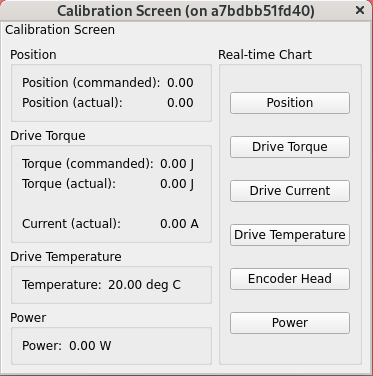
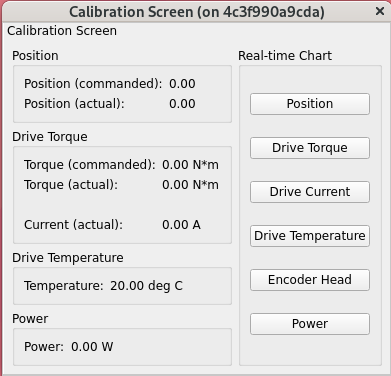
Change the torque unit to be N*m instead of J.

diff --git a/python/lsst/ts/mtdomegui/tab/tab_louver_single.py b/python/lsst/ts/mtdomegui/tab/tab_louver_single.py
@@ -114,7 +114,7 @@ class TabLouverSingle(TabTemplate):
             "drive_torque": TabFigure(
                 f"{louver_name} Actual Drive Torque",
                 self.model,
-                "J",
+                "N*m",
                 [str(idx) for idx in range(LCS_NUM_MOTORS_PER_LOUVER)],
             ),
             "drive_current": TabFigure(
@@ -291,9 +291,9 @@ class TabLouverSingle(TabTemplate):
         Parameters
         ----------
         torque_commanded : `list` [`float`]
-            Commanded torque in J.
+            Commanded torque in N*m.
         torque_actual : `list` [`float`]
-            Actual torque in J.
+            Actual torque in N*m.
         current_actual : `list` [`float`]
             Actual current in A.
         encoder_head : `list` [`float`]
@@ -302,10 +302,10 @@ class TabLouverSingle(TabTemplate):
 
         for idx in range(LCS_NUM_MOTORS_PER_LOUVER):
             self._status["drive_torque_commanded"][idx].setText(
-                f"{torque_commanded[idx]:.2f} J"
+                f"{torque_commanded[idx]:.2f} N*m"
             )
             self._status["drive_torque_actual"][idx].setText(
-                f"{torque_actual[idx]:.2f} J"
+                f"{torque_actual[idx]:.2f} N*m"
             )
             self._status["drive_current_actual"][idx].setText(
                 f"{current_actual[idx]:.2f} A"

diff --git a/python/lsst/ts/mtdomegui/tab/tab_aperture_shutter.py b/python/lsst/ts/mtdomegui/tab/tab_aperture_shutter.py
@@ -144,7 +144,7 @@ class TabApertureShutter(TabTemplate):
             "drive_torque": TabFigure(
                 "Actual Drive Torque",
                 self.model,
-                "J",
+                "N*m",
                 [str(idx) for idx in range(NUM_DRIVE_SHUTTER)],
             ),
             "drive_current": TabFigure(
@@ -369,10 +369,10 @@ class TabApertureShutter(TabTemplate):
 
         for idx in range(NUM_DRIVE_SHUTTER):
             self._status["drive_torque_commanded"][idx].setText(
-                f"{telemetry['driveTorqueCommanded'][idx]:.2f} J"
+                f"{telemetry['driveTorqueCommanded'][idx]:.2f} N*m"
             )
             self._status["drive_torque_actual"][idx].setText(
-                f"{telemetry['driveTorqueActual'][idx]:.2f} J"
+                f"{telemetry['driveTorqueActual'][idx]:.2f} N*m"
             )
             self._status["drive_current_actual"][idx].setText(
                 f"{telemetry['driveCurrentActual'][idx]:.2f} A"

diff --git a/python/lsst/ts/mtdomegui/tab/tab_elevation.py b/python/lsst/ts/mtdomegui/tab/tab_elevation.py
@@ -151,7 +151,7 @@ class TabElevation(TabTemplate):
             "drive_torque": TabFigure(
                 "Actual Drive Torque",
                 self.model,
-                "J",
+                "N*m",
                 [str(idx) for idx in range(LWSCS_NUM_MOTORS)],
             ),
             "drive_current": TabFigure(
@@ -398,10 +398,10 @@ class TabElevation(TabTemplate):
 
         for idx in range(LWSCS_NUM_MOTORS):
             self._status["drive_torque_commanded"][idx].setText(
-                f"{telemetry['driveTorqueCommanded'][idx]:.2f} J"
+                f"{telemetry['driveTorqueCommanded'][idx]:.2f} N*m"
             )
             self._status["drive_torque_actual"][idx].setText(
-                f"{telemetry['driveTorqueActual'][idx]:.2f} J"
+                f"{telemetry['driveTorqueActual'][idx]:.2f} N*m"
             )
             self._status["drive_current_actual"][idx].setText(
                 f"{telemetry['driveCurrentActual'][idx]:.2f} A"

diff --git a/python/lsst/ts/mtdomegui/tab/tab_azimuth.py b/python/lsst/ts/mtdomegui/tab/tab_azimuth.py
@@ -153,7 +153,7 @@ class TabAzimuth(TabTemplate):
             "drive_torque": TabFigure(
                 "Actual Drive Torque",
                 self.model,
-                "J",
+                "N*m",
                 [str(idx) for idx in range(AMCS_NUM_MOTORS)],
             ),
             "drive_current": TabFigure(
@@ -382,10 +382,10 @@ class TabAzimuth(TabTemplate):
 
         for idx in range(AMCS_NUM_MOTORS):
             self._status["drive_torque_commanded"][idx].setText(
-                f"{telemetry['driveTorqueCommanded'][idx]:.2f} J"
+                f"{telemetry['driveTorqueCommanded'][idx]:.2f} N*m"
             )
             self._status["drive_torque_actual"][idx].setText(
-                f"{telemetry['driveTorqueActual'][idx]:.2f} J"
+                f"{telemetry['driveTorqueActual'][idx]:.2f} N*m"
             )
             self._status["drive_current_actual"][idx].setText(
                 f"{telemetry['driveCurrentActual'][idx]:.2f} A"

diff --git a/python/lsst/ts/mtdomegui/tab/tab_rear_access_door.py b/python/lsst/ts/mtdomegui/tab/tab_rear_access_door.py
@@ -161,7 +161,7 @@ class TabRearAccessDoor(TabTemplate):
             "drive_torque": TabFigure(
                 "Actual Drive Torque",
                 self.model,
-                "J",
+                "N*m",
                 [str(idx) for idx in range(RAD_NUM_DOORS)],
             ),
             "drive_current": TabFigure(
@@ -395,10 +395,10 @@ class TabRearAccessDoor(TabTemplate):
             )
 
             self._status["drive_torque_commanded"][idx].setText(
-                f"{telemetry['driveTorqueCommanded'][idx]:.2f} J"
+                f"{telemetry['driveTorqueCommanded'][idx]:.2f} N*m"
             )
             self._status["drive_torque_actual"][idx].setText(
-                f"{telemetry['driveTorqueActual'][idx]:.2f} J"
+                f"{telemetry['driveTorqueActual'][idx]:.2f} N*m"
             )
             self._status["drive_current_actual"][idx].setText(
                 f"{telemetry['driveCurrentActual'][idx]:.2f} A"

diff --git a/python/lsst/ts/mtdomegui/tab/tab_calibration.py b/python/lsst/ts/mtdomegui/tab/tab_calibration.py
@@ -105,7 +105,7 @@ class TabCalibration(TabTemplate):
             "drive_torque": TabFigure(
                 "Actual Drive Torque",
                 self.model,
-                "J",
+                "N*m",
                 ["torque"],
             ),
             "drive_current": TabFigure(
@@ -280,10 +280,10 @@ class TabCalibration(TabTemplate):
         self._status["position_actual"].setText(f"{position_actual:.2f}")
 
         self._status["drive_torque_commanded"].setText(
-            f"{telemetry['driveTorqueCommanded']:.2f} J"
+            f"{telemetry['driveTorqueCommanded']:.2f} N*m"
         )
         self._status["drive_torque_actual"].setText(
-            f"{telemetry['driveTorqueActual']:.2f} J"
+            f"{telemetry['driveTorqueActual']:.2f} N*m"
         )
         self._status["drive_current_actual"].setText(
             f"{telemetry['driveCurrentActual']:.2f} A"

diff --git a/tests/tab/test_tab_louver.py b/tests/tab/test_tab_louver.py
@@ -88,8 +88,8 @@ async def test_set_signal_telemetry(widget: TabLouver) -> None:
         assert louver._status["position_commanded"].text() == "1.00 %"
         assert louver._status["position_actual"].text() == "1.00 %"
 
-        assert louver._status["drive_torque_commanded"][0].text() == "1.00 J"
-        assert louver._status["drive_torque_actual"][0].text() == "1.00 J"
+        assert louver._status["drive_torque_commanded"][0].text() == "1.00 N*m"
+        assert louver._status["drive_torque_actual"][0].text() == "1.00 N*m"
         assert louver._status["drive_current_actual"][0].text() == "1.00 A"
 
         assert louver._status["drive_temperature"][0].text() == "1.00 deg C"

diff --git a/tests/tab/test_tab_aperture_shutter.py b/tests/tab/test_tab_aperture_shutter.py
@@ -72,8 +72,8 @@ async def test_set_signal_telemetry(widget: TabApertureShutter) -> None:
     assert widget._status["position_commanded"][0].text() == "1.00 %"
     assert widget._status["position_actual"][0].text() == "1.00 %"
 
-    assert widget._status["drive_torque_commanded"][0].text() == "1.00 J"
-    assert widget._status["drive_torque_actual"][0].text() == "1.00 J"
+    assert widget._status["drive_torque_commanded"][0].text() == "1.00 N*m"
+    assert widget._status["drive_torque_actual"][0].text() == "1.00 N*m"
     assert widget._status["drive_current_actual"][0].text() == "1.00 A"
 
     assert widget._status["drive_temperature"][0].text() == "1.00 deg C"

diff --git a/tests/tab/test_tab_elevation.py b/tests/tab/test_tab_elevation.py
@@ -75,8 +75,8 @@ async def test_set_signal_telemetry(widget: TabElevation) -> None:
     assert widget._status["velocity_commanded"].text() == "1.00 deg/sec"
     assert widget._status["velocity_actual"].text() == "1.00 deg/sec"
 
-    assert widget._status["drive_torque_commanded"][0].text() == "1.00 J"
-    assert widget._status["drive_torque_actual"][0].text() == "1.00 J"
+    assert widget._status["drive_torque_commanded"][0].text() == "1.00 N*m"
+    assert widget._status["drive_torque_actual"][0].text() == "1.00 N*m"
     assert widget._status["drive_current_actual"][0].text() == "1.00 A"
 
     assert widget._status["drive_temperature"][0].text() == "1.00 deg C"

diff --git a/tests/tab/test_tab_rear_access_door.py b/tests/tab/test_tab_rear_access_door.py
@@ -74,8 +74,8 @@ async def test_set_signal_telemetry(widget: TabRearAccessDoor) -> None:
     assert widget._status["position_commanded"][0].text() == "1.00 %"
     assert widget._status["position_actual"][0].text() == "1.00 %"
 
-    assert widget._status["drive_torque_commanded"][0].text() == "1.00 J"
-    assert widget._status["drive_torque_actual"][0].text() == "1.00 J"
+    assert widget._status["drive_torque_commanded"][0].text() == "1.00 N*m"
+    assert widget._status["drive_torque_actual"][0].text() == "1.00 N*m"
     assert widget._status["drive_current_actual"][0].text() == "1.00 A"
 
     assert widget._status["drive_temperature"][0].text() == "1.00 deg C"

diff --git a/tests/tab/test_tab_azimuth.py b/tests/tab/test_tab_azimuth.py
@@ -75,8 +75,8 @@ async def test_set_signal_telemetry(widget: TabAzimuth) -> None:
     assert widget._status["velocity_commanded"].text() == "1.00 deg/sec"
     assert widget._status["velocity_actual"].text() == "1.00 deg/sec"
 
-    assert widget._status["drive_torque_commanded"][0].text() == "1.00 J"
-    assert widget._status["drive_torque_actual"][0].text() == "1.00 J"
+    assert widget._status["drive_torque_commanded"][0].text() == "1.00 N*m"
+    assert widget._status["drive_torque_actual"][0].text() == "1.00 N*m"
     assert widget._status["drive_current_actual"][0].text() == "1.00 A"
 
     assert widget._status["drive_temperature"][0].text() == "1.00 deg C"

diff --git a/tests/tab/test_tab_calibration.py b/tests/tab/test_tab_calibration.py
@@ -69,8 +69,8 @@ async def test_set_signal_telemetry(widget: TabCalibration) -> None:
     assert widget._status["position_commanded"].text() == "1.00"
     assert widget._status["position_actual"].text() == "1.00"
 
-    assert widget._status["drive_torque_commanded"].text() == "1.00 J"
-    assert widget._status["drive_torque_actual"].text() == "1.00 J"
+    assert widget._status["drive_torque_commanded"].text() == "1.00 N*m"
+    assert widget._status["drive_torque_actual"].text() == "1.00 N*m"
     assert widget._status["drive_current_actual"].text() == "1.00 A"
 
     assert widget._status["drive_temperature"].text() == "1.00 deg C"
